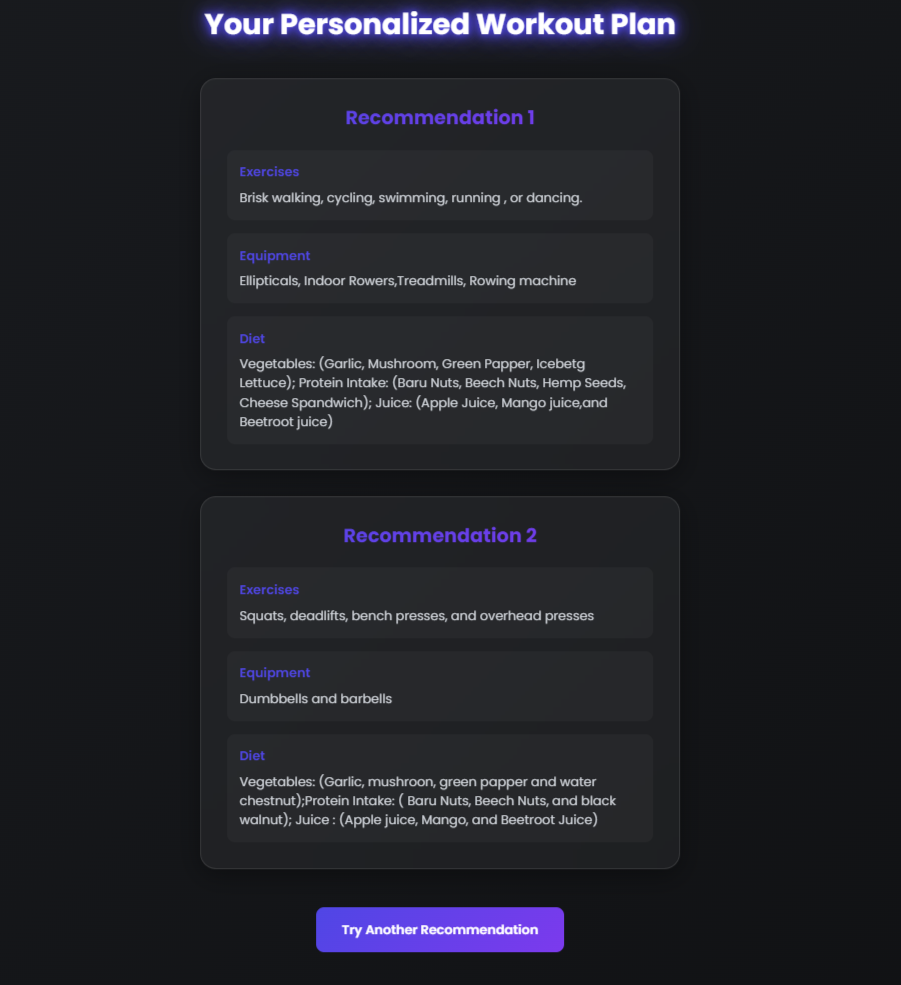
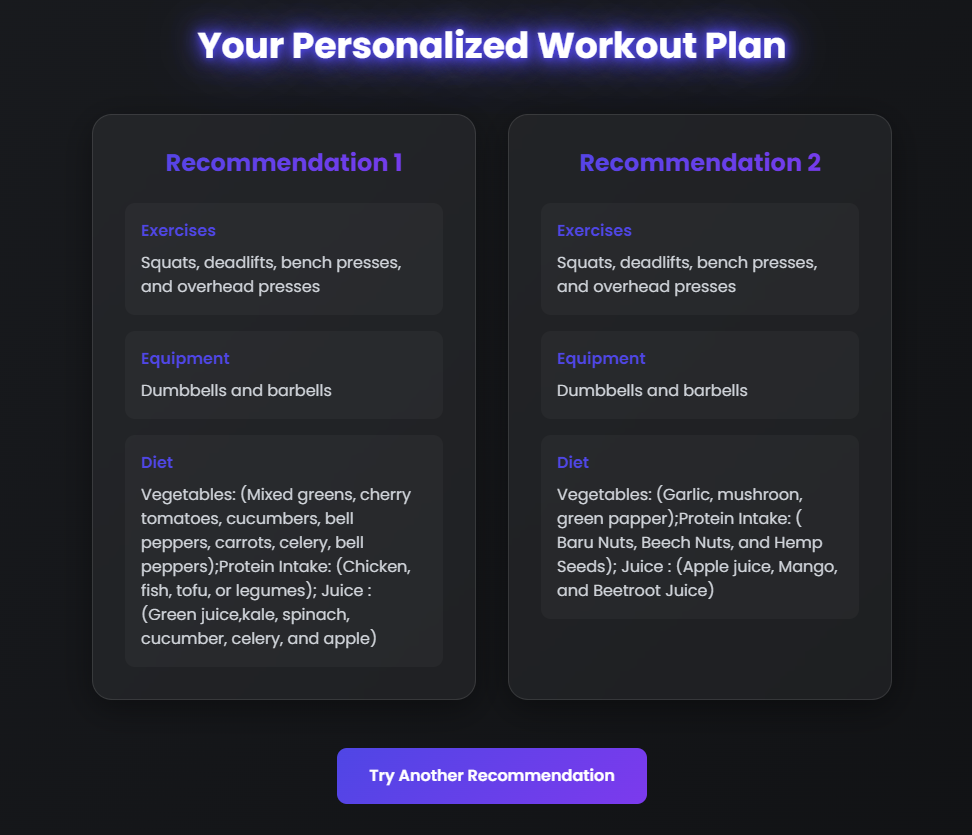
uploaded image

diff --git a/app/static/css/style.css b/app/static/css/style.css
@@ -23,10 +23,10 @@ body {
 .neon-title {
     text-align: center;
     color: #fff;
-    text-shadow: 0 0 10px #4f46e5,
-                 0 0 20px #4f46e5,
-                 0 0 40px #4f46e5,
-                 0 0 80px #4f46e5;
+    text-shadow: 0 0 10px #6562a5,
+                 0 0 20px #6562a5,
+                 0 0 40px #6562a5,
+                 0 0 80px #6562a5;
     animation: neon 1.5s ease-in-out infinite alternate;
 }
 
@@ -120,9 +120,13 @@ body {
     border-radius: 20px;
     padding: 2rem;
     box-shadow: 0 8px 32px 0 rgba(0, 0, 0, 0.37);
-    transition: all 0.3s ease;
-    width: 100%;
-    max-width: 600px;
+transition: all 0.3s ease;
+width: 100%;
+max-width: 600px;
+
+transition: all 0.3s ease;
+width: 100%;
+max-width: 600px;
 }
 
 .glass-card:hover {
@@ -132,11 +136,17 @@ body {
 
 .recommendations-container {
     display: flex;
-    flex-direction: column;
-    align-items: center;
+    flex-wrap: wrap; /* Allow wrapping if there are more cards */
+    justify-content: center; /* Center the cards horizontally */
     gap: 2rem;
     max-width: 800px;
     margin: 0 auto;
+}
+
+.flexbox {
+    display: flex;
+    justify-content: space-between;
+    align-items: center;
 }
 
 .recommendation-number {
@@ -151,6 +161,16 @@ body {
     color: #4f46e5;
     font-weight: 600;
     margin-bottom: 0.5rem;
+}
+
+.glass-card {
+    flex: 1 1 calc(50% - 2rem); /* Take up half the container width minus the gap */
+    max-width: 400px; /* Optional: Set a max width for each card */
+    box-sizing: border-box;
+}
+
+.neon-title {
+    margin-top: 2rem; /* Adjust the value as needed */
 }
 
 .back-btn {

diff --git a/app/templates/recommendations.html b/app/templates/recommendations.html
@@ -9,8 +9,9 @@
 <body class="p-4">
     <div class="container mx-auto max-w-6xl">
         <h1 class="text-4xl font-bold mb-12 neon-title">Your Personalized Workout Plan</h1>
+        <div class="flexbox">
         
-        <div class="recommendations-container">
+            <div class="recommendations-container">
             {% for recommendation in recommendations %}
             <div class="glass-card">
                 <h2 class="text-2xl recommendation-number mb-6 text-center">Recommendation {{loop.index}}</h2>
@@ -32,7 +33,7 @@
             </div>
             {% endfor %}
         </div>
-        
+    </div>
         <div class="mt-12 text-center">
             <a href="/" class="back-btn">Try Another Recommendation</a>
         </div>
